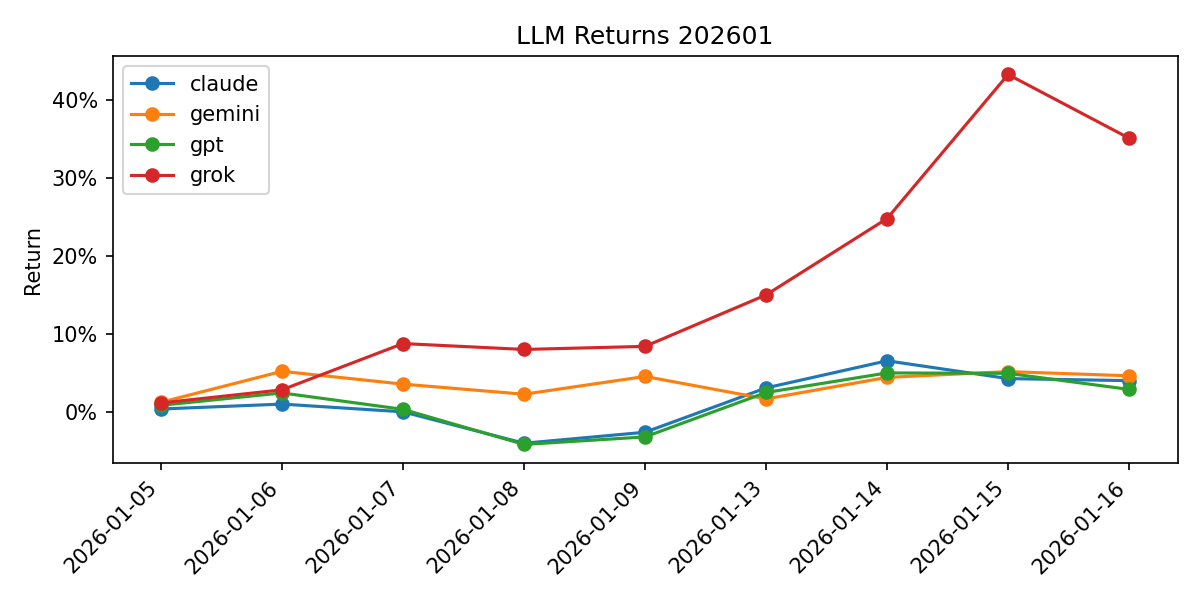
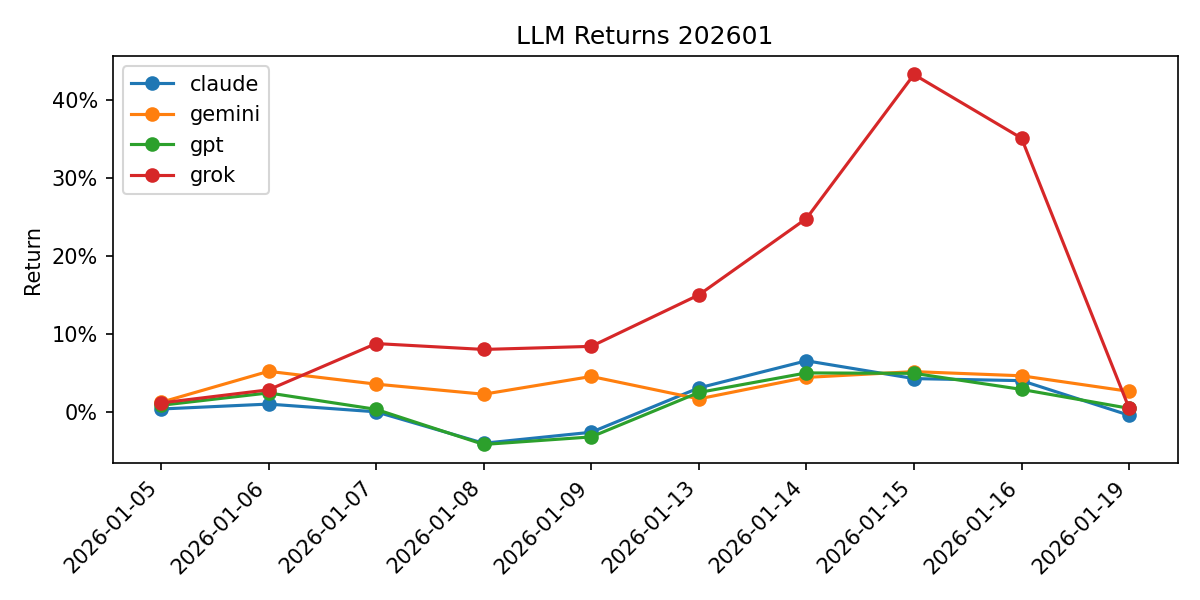
chore: add daily results 2026-01-19

diff --git a/reports/202601/summary.md b/reports/202601/summary.md
@@ -20,6 +20,7 @@
 | 2026-01-14 | 6.59% | 4.46% | 5.03% | 24.85% |
 | 2026-01-15 | 4.30% | 5.20% | 4.98% | 43.33% |
 | 2026-01-16 * | 4.04% | 4.66% | 2.92% | 35.16% |
+| 2026-01-19 | -0.40% | 2.66% | 0.49% | 0.51% |
 
 ![LLM monthly returns](summary.png)
 
@@ -43,3 +44,11 @@
 | 2026-01-12→2026-01-16 | gpt | 6501.T (HITACHI) | 政府の景気刺激策やインフラ・エネルギー投資拡大の恩恵を受けやすく、2025年までのガバナンス改善・事業ポートフォリオ再編で収益力が向上している大型バリュー寄り銘柄。年初の日本株ラリーで出遅れ修正の買いが続きやすいと見て、今週のリバウンド狙い。 |
 | 2026-01-12→2026-01-16 | grok | 6330.T (TOYO ENGINEERING CORP) | X投稿で1月13日注目銘柄として複数挙げられ、短期上昇期待 |
 | 2026-01-12→2026-01-16 | grok | 485A.T (POWERX INC) | 半導体・エネルギー関連で直近Xで爆上げ候補として注目、米市場連動期待 |
+| 2026-01-19→2026-01-23 | claude | 6857.T (ADVANTEST CORP) | AI半導体需要の継続的な成長、NVIDIA向けテスター受注好調、1月28日の決算発表を控えた期待感、アナリストの強気評価が多数 |
+| 2026-01-19→2026-01-23 | claude | 8306.T (MITSUBISHI UFJ FINANCIAL GROUP) | 日銀の1月会合での政策金利据え置き予想により金利上昇懸念後退、増配継続による高配当利回り、堅調な業績と時価総額首位の安定性 |
+| 2026-01-19→2026-01-23 | gemini | 8035.T (TOKYO ELECTRON) | TSMCの好決算を受けた半導体市況の改善期待に加え、高市首相が掲げるAI・半導体投資促進策が追い風となる。円安基調も輸出採算を押し上げる。 |
+| 2026-01-19→2026-01-23 | gemini | 7011.T (MITSUBISHI HEAVY INDUSTRIES) | 1月19日に予想される高市首相の衆院解散表明により、政権の主要政策である防衛力強化関連銘柄として「選挙相場」での資金流入が見込まれる。 |
+| 2026-01-19→2026-01-23 | gpt | 8035.T (TOKYO ELECTRON) | 政府による半導体・AI分野への大型支援やRapidus計画などで日本半導体投資が加速しており、設備投資需要が中期的に強い。短期的にも関連ニュースで物色されやすく、ボラティリティが高い分、1週間ベースでの上昇取りも狙いやすいと判断。 |
+| 2026-01-19→2026-01-23 | gpt | 6301.T (KOMATSU) | タカイチ政権のインフラ投資・建設関連支出拡大や「フィジカルAI」ロボット需要期待が追い風となるセクターで、政策関連銘柄として物色の継続が見込まれる。自動化投資の世界的な流れもあり、短期のテーマ性と中期のファンダが両立している点を評価。 |
+| 2026-01-19→2026-01-23 | grok | 7203.T (TOYOTA MOTOR CORP) | 循環的追い風と自動車セクター回復期待 |
+| 2026-01-19→2026-01-23 | grok | 8035.T (TOKYO ELECTRON) | AI半導体需要の継続的高成長 |

diff --git a/data/result/result-2026-01-19.md b/data/result/result-2026-01-19.md
@@ -1,0 +1,25 @@
+# Daily Result 2026-01-19
+
+## Models
+
+| LLM | Model |
+| --- | --- |
+| claude | claude-sonnet-4-5-20250929 |
+| gemini | gemini-3-pro-preview |
+| gpt | gpt-5.1 |
+| grok | grok-4-1-fast-reasoning |
+
+| LLM | Symbol | Buy(Open) | Close(today) | Return |
+| --- | --- | --- | --- | --- |
+| claude | 6857.T (ADVANTEST CORP) | 22200.00 | 22160.00 | -0.18% |
+|  | 8306.T (MITSUBISHI UFJ FINANCIAL GROUP) | 2971.50 | 2953.00 | -0.62% |
+|  | Avg |  |  | -0.40% |
+| gemini | 8035.T (TOKYO ELECTRON) | 42020.00 | 42180.00 | 0.38% |
+|  | 7011.T (MITSUBISHI HEAVY INDUSTRIES) | 4650.00 | 4880.00 | 4.95% |
+|  | Avg |  |  | 2.66% |
+| gpt | 8035.T (TOKYO ELECTRON) | 42020.00 | 42180.00 | 0.38% |
+|  | 6301.T (KOMATSU) | 5576.00 | 5609.00 | 0.59% |
+|  | Avg |  |  | 0.49% |
+| grok | 7203.T (TOYOTA MOTOR CORP) | 3600.00 | 3623.00 | 0.64% |
+|  | 8035.T (TOKYO ELECTRON) | 42020.00 | 42180.00 | 0.38% |
+|  | Avg |  |  | 0.51% |
